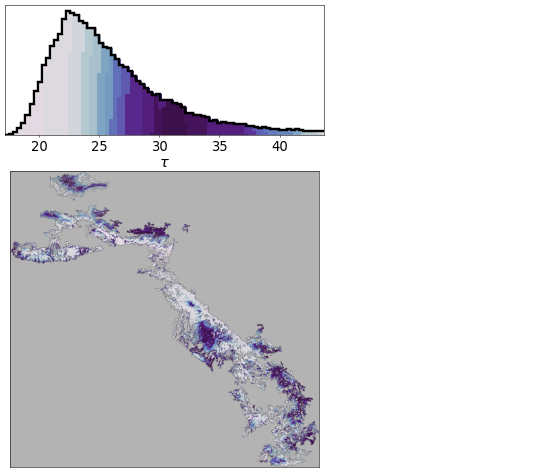
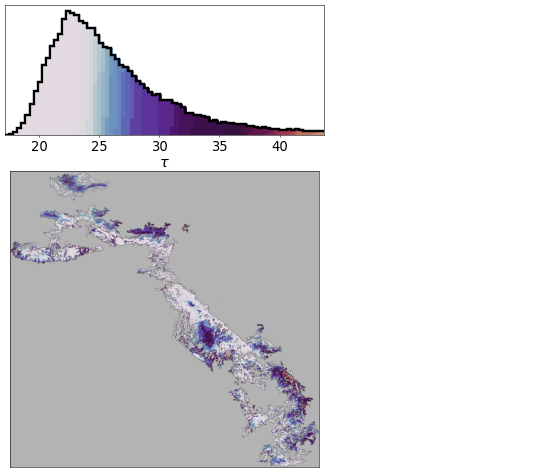
Left shift goes away if only mu params nonzero
...and less than zero

diff --git a/sensitivity/phase_mcsampled.py b/sensitivity/phase_mcsampled.py
@@ -84,17 +84,17 @@ else:
         'sigm_tau': 0.,
         'mu_tauc': -1.0,
         'sigm_tauc': 0.,
-        'demographic_index': 1
+        'demographic_index': 0
     }
     maxima = {
         # 'C': 5.*pproc.ncell_tot,
         # 'ncell': int(1. * pproc.slice_right_max),
         # 'slice_left': int(1.*pproc.ncell_tot),
         'mu_tau': 0.,
-        'sigm_tau': 10.,
+        'sigm_tau': 0.,
         'mu_tauc': 0.0,
-        'sigm_tauc': 0.5,
-        'demographic_index': len(metric_spl_all) - 1
+        'sigm_tauc': 0.,
+        'demographic_index': 0 #len(metric_spl_all) - 1
     }
 
     ### Initialize strategy combinations ### 
@@ -123,7 +123,7 @@ else:
     #num_eps_combs = 225
     #num_eps_combs = 500
     #num_eps_combs = 1000
-    num_eps_combs = 6000
+    num_eps_combs = 1000
     np.save(pproc.data_dir + '/num_eps_combs.npy', num_eps_combs)
     num_combs_tot = num_strategy_combs * num_eps_combs
 

diff --git a/sensitivity/postprocess.py b/sensitivity/postprocess.py
@@ -65,7 +65,8 @@ for results_pre in results_pre_labs:
         tot_eps_samples = np.cumprod([len(axis) for axis in eps_axes.values()])[-1]
 
     # Define range of threshold values for metapop metric
-    rob_thresh_vec = np.linspace(min(meta_metric_all), max(meta_metric_all), 100)
+    #rob_thresh_vec = np.linspace(min(meta_metric_all), max(meta_metric_all), 100)
+    rob_thresh_vec = np.linspace(0, 1, 150)
     np.save(fn_prefix + "rob_thresh_vec.npy", rob_thresh_vec)
 
     # Create a lookup table for parameter combinations
